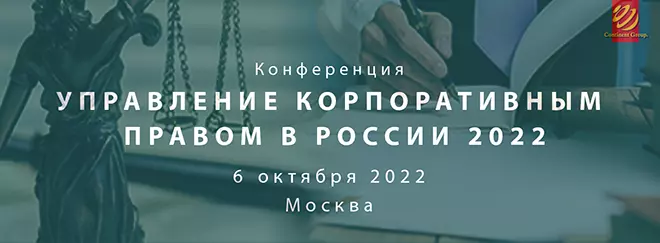
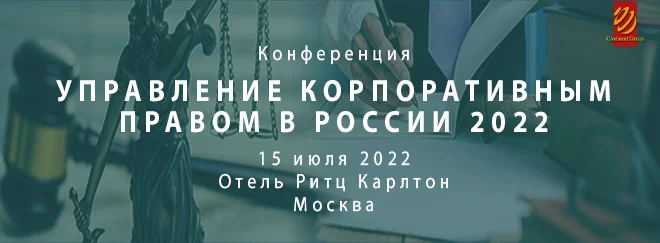
Correct date in Pravo

diff --git a/src/components/AppCenter.vue b/src/components/AppCenter.vue
@@ -252,6 +252,20 @@ export default{
         video: 'https://www.youtube.com/watch?v=sRe6qB8hYZo&t'
       }, {
         formIsOpen: false,
+        disable: 0,
+        name: 'Управление корпоративным правом в России 2022 г.',
+        imageRef: require('../assets/Pravo.webp'),
+        place:
+            {
+              title: 'Отель Ритц Карлтон',
+              link: 'https://www.ritzcarlton.com/ru/hotels/europe/moscow',
+            },
+        date: '15 июля 2022 г.',
+        meetupPlan: './Управление корпоративным правом в России 2021.pdf',
+        status: 'Программа мероприятия 2021г.',
+        video: 'https://www.youtube.com/watch?v=Xgiej0-WZyM&t',
+      }, {
+        formIsOpen: false,
         name: 'Управление информационными технологиями в России 2022 г.',
         imageRef: require('../assets/InfoTech.webp'),
         place:
@@ -263,20 +277,6 @@ export default{
         meetupPlan: './Управление информационными технологиями в России 2021.pdf',
         status: 'Программа мероприятия 2021г.',
         video: 'https://www.youtube.com/watch?v=ib1aj-oHXUE&t'
-      }, {
-        formIsOpen: false,
-        disable: 0,
-        name: 'Управление корпоративным правом в России 2022 г.',
-        imageRef: require('../assets/Pravo.webp'),
-        place:
-            {
-              title: 'Отель Арарат Парк Хаятт',
-              link: 'https://www.hyattrestaurants.com/en/dining/russia/moscow',
-            },
-        date: '06 октября 2022 г.',
-        meetupPlan: './Управление корпоративным правом в России 2021.pdf',
-        status: 'Программа мероприятия 2021г.',
-        video: 'https://www.youtube.com/watch?v=Xgiej0-WZyM&t',
       }, {
         formIsOpen: false,
         disable: 1,
